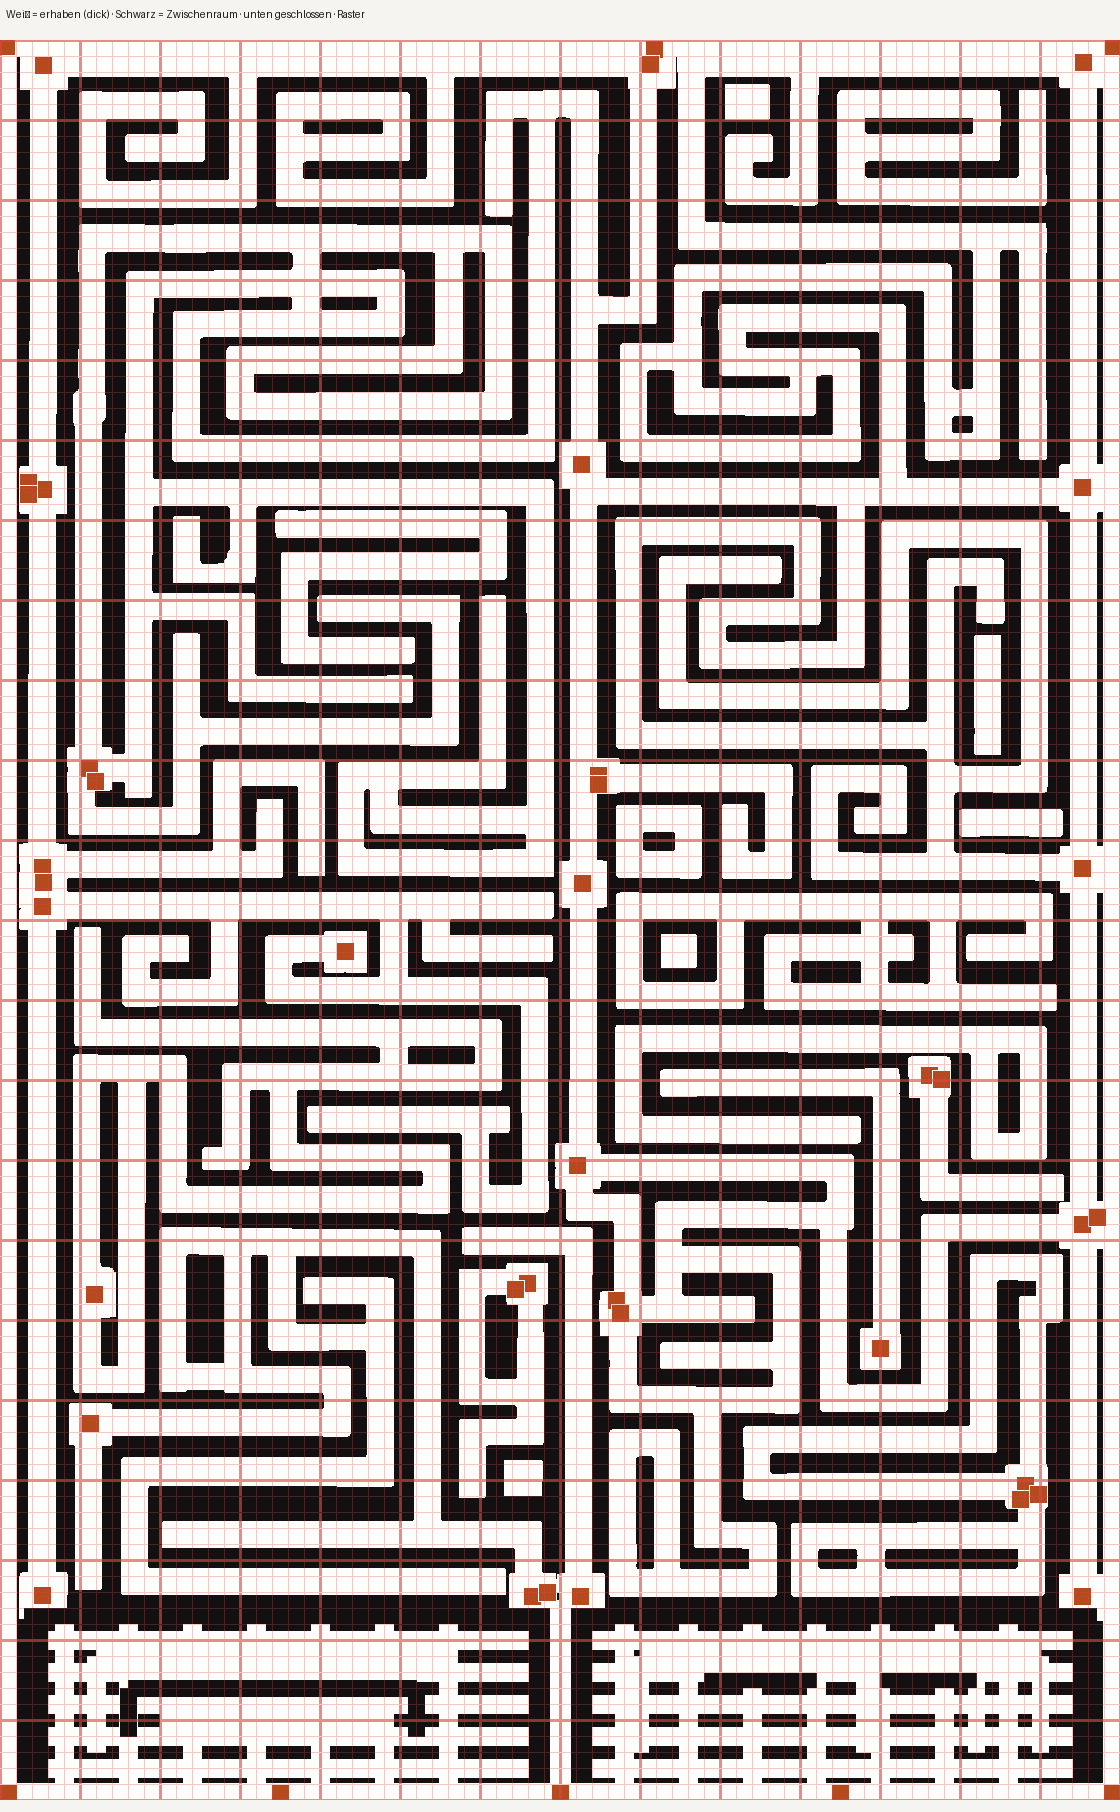
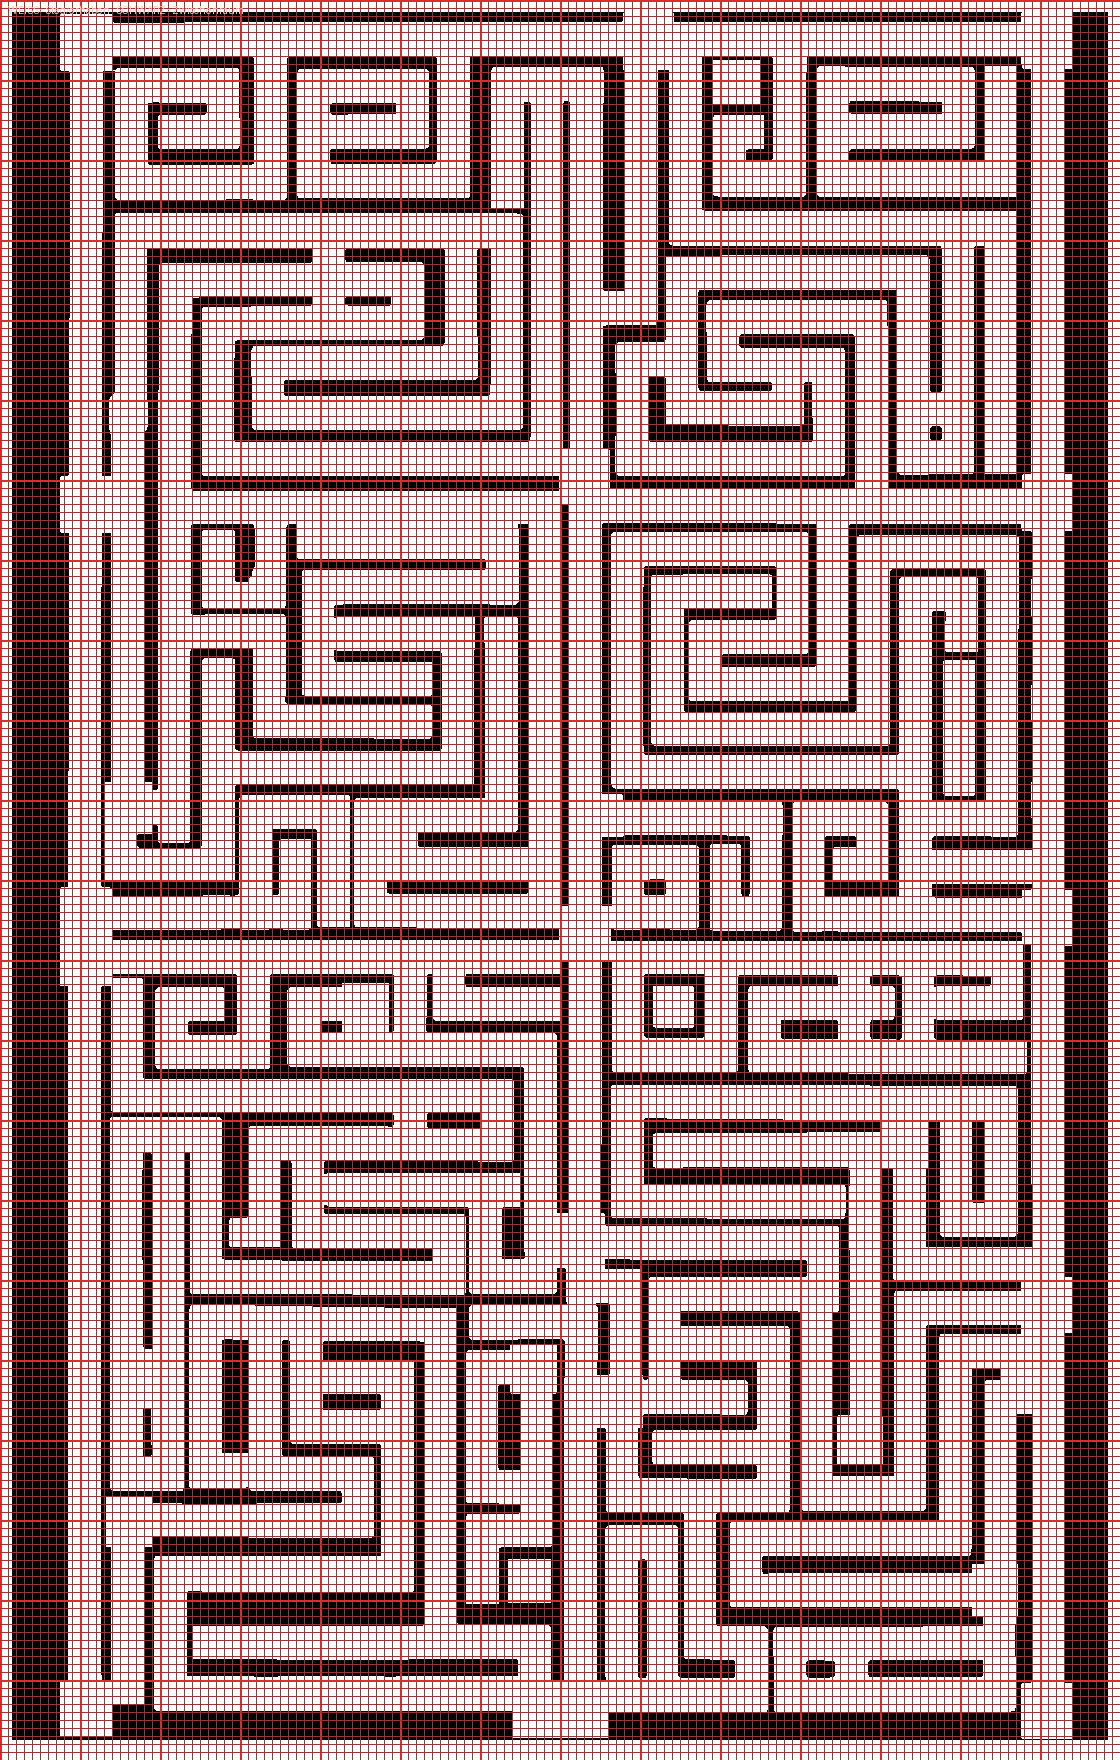
Ahnenraster: Weiß=Steg, unten geschlossen, Herkunft dokumentiert
Polarität korrigiert (erhaben weiß), unterer Bereich geschlossen,
Herkunft aus KI-Modellbild (kein CAD) festgehalten.

diff --git a/src/config/hundredGenerationAhnenraster.ts b/src/config/hundredGenerationAhnenraster.ts
@@ -39,6 +39,7 @@ export const AHNENRASTER_BLATT = {
     'Historisch: Status, Brautpreis/Tausch, Clan – nicht Alltagswerkzeug zum Holzhacken.',
     'Im Projekt: Axt als realer Anker (Bruder des Künstlers, 1960er, Clan-Aufnahme); Flechtwerk = Generationen-Wissen / „Code“.',
     'Name „Ahnenraster“ = unsere Bezeichnung für die Labyrinth-Platte an 4M (künstlerische Form, angelehnt an Di-Kurugu-Musterdenken).',
-    'Linienzeichnung (durchgehende Linien + Stopps) + Foto-Vergleich = Vorlage zur Prüfung; CNC erst nach Freigabe.',
+    'Herkunft der Platte auf 4M: KI-Bild (Cursor GenerateImage) mit Di-Kurugu-Fotos als Stimmung – es gab kein fertiges CAD. Foto = Ausschnitt aus dem Modellbild.',
+    'Zeichnung jetzt: Weiß = erhabener Steg, Schwarz = Zwischenraum; unten geschlossen. CNC erst nach Freigabe.',
   ],
 } as const

diff --git a/docs/DIALOG-STAND.md b/docs/DIALOG-STAND.md
@@ -1,11 +1,11 @@
 # Dialog-Stand
 
-**Was wir JETZT tun:** Ahnenraster-Zeichnung prüfen (Weiß=erhaben dick, Schwarz=Zwischenraum, unten geschlossen).
+**Was wir JETZT tun:** Ahnenraster-Zeichnung – Polarität Weiß=Steg prüfen; Herkunft des Musters erklärt.
 
-**Einordnung:** Polarität wie Foto; unten ergänzt; Raster sichtbar. CNC pausiert.
+**Einordnung:** 4M-Labyrinth kam aus KI-Modellbild (kein CAD). Zeichnung neu: weiß=erhaben, schwarz=Zwischenraum, unten geschlossen. CNC weiter pausiert.
 
-**Nächster Schritt:** Georg: Vergleich – Weiß/Schwarz und unten jetzt ok?
+**Nächster Schritt:** Georg: Vergleich neu laden – Stege weiß? Unten zu? Dann Freigabe oder Korrekturpunkte.
 
-**Letzter Stand:** 11.09.26 – Weiß=erhaben (~1:1), unten geschlossen. **Commit:**  ✅ **main**
+**Letzter Stand:** 11.09.26 – Polarität neu + Herkunft dokumentiert (`AHNENRASTER-HERKUNFT.txt`).
 
 ---
